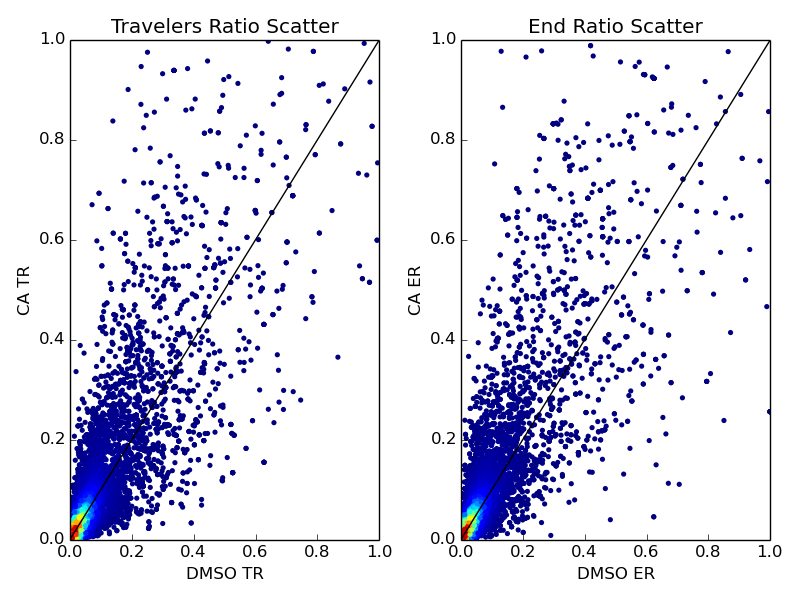
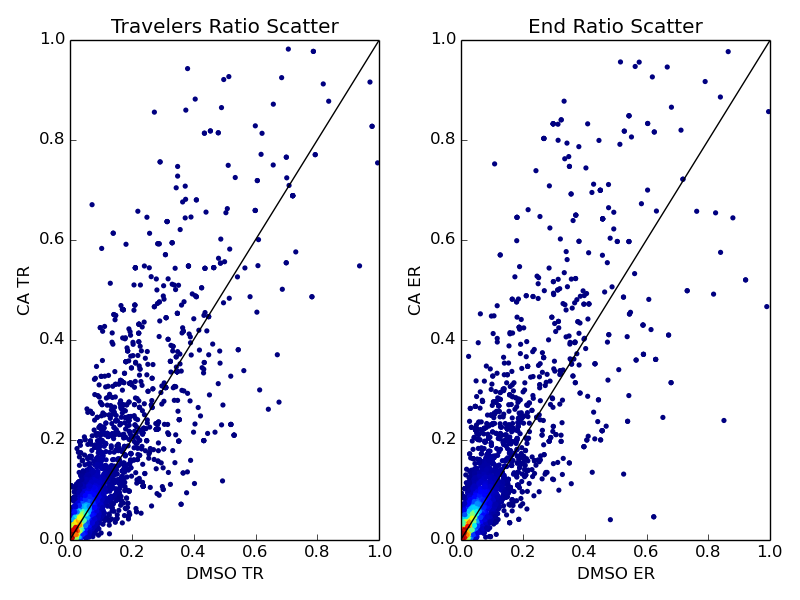
updates

diff --git a/src/master_writer.py b/src/master_writer.py
@@ -128,9 +128,9 @@ def run(DMSOgenes,DMSOTSS,DMSOEND,CAgenes,CATSS,CAEND,filedir,figuredir):
     xy = np.vstack([TRx,TRy])
     z = gaussian_kde(xy)(xy)
     ax1.scatter(TRx,TRy,c=z,edgecolor="",s=14)
-    ax1.set_title('Travelers Ratio Scatter')
-    ax1.set_ylabel('CA TR')
-    ax1.set_xlabel('DMSO TR')
+    ax1.set_title('Travelers Ratio')
+    ax1.set_ylabel('CA')
+    ax1.set_xlabel('DMSO')
     ax1.get_xaxis().tick_bottom()
     ax1.get_yaxis().tick_left()
     ax1.set_xlim([0, 1])
@@ -140,15 +140,38 @@ def run(DMSOgenes,DMSOTSS,DMSOEND,CAgenes,CATSS,CAEND,filedir,figuredir):
     xy = np.vstack([ERx,ERy])
     z = gaussian_kde(xy)(xy)
     ax2.scatter(ERx,ERy,c=z,edgecolor="",s=14)
-    ax2.set_title('End Ratio Scatter')
-    ax2.set_ylabel('CA ER')
-    ax2.set_xlabel('DMSO ER')
+    ax2.set_title('End Ratio')
+    ax2.set_ylabel('CA')
+    ax2.set_xlabel('DMSO')
     ax2.get_xaxis().tick_bottom()
     ax2.get_yaxis().tick_left()
     ax2.set_xlim([0, 1])
     ax2.set_ylim([0, 1])
     ax2.plot([0,1],[0,1],color = 'k')
     plt.savefig(figuredir + '/Scatter_reflected_moregenes.png')
+    F4 = plt.figure()
+    bp1 = plt.boxplot(TRlist,ENDlist)
+    ax1.set_xticklabels(['Travelers Ratio','End Ratio'],rotation = 45, fontsize=8)
+    ax1.get_xaxis().tick_bottom()
+    ax1.get_yaxis().tick_left()
+    ## change outline color, fill color and linewidth of the boxes
+    for box in bp1['boxes']:
+        # change outline color
+        box.set( color='#7570b3', linewidth=2)
+        # change fill color
+        box.set( facecolor = '#1b9e77' )
+    ## change color and linewidth of the whiskers
+    for whisker in bp1['whiskers']:
+        whisker.set(color='#7570b3', linewidth=2)
+    ## change color and linewidth of the caps
+    for cap in bp1['caps']:
+        cap.set(color='#7570b3', linewidth=2)
+    ## change color and linewidth of the medians
+    for median in bp1['medians']:
+        median.set(color='#b2df8a', linewidth=2)
+    ## change the style of fliers and their fill
+    for flier in bp1['fliers']:
+        flier.set(marker='o', color='#e7298a', alpha=0.5)
     for item in sorted(TRgenes, key=itemgetter(1),reverse=True):
         outfile2.write(item[0] + '\t' + str(item[1]) + '\n')
     outfile2.write("High DMSO TR\n")
@@ -160,7 +183,7 @@ def run(DMSOgenes,DMSOTSS,DMSOEND,CAgenes,CATSS,CAEND,filedir,figuredir):
     outfile2.write("High DMSO ER\n")
     for item in sorted(DMSOENDgenes, key=itemgetter(1),reverse=True):
         outfile2.write(item[0] + '\t' + str(item[1]) + '\n')
-    
+    plt.savefig(figuredir + '/Boxplot.png')
     
     
     
